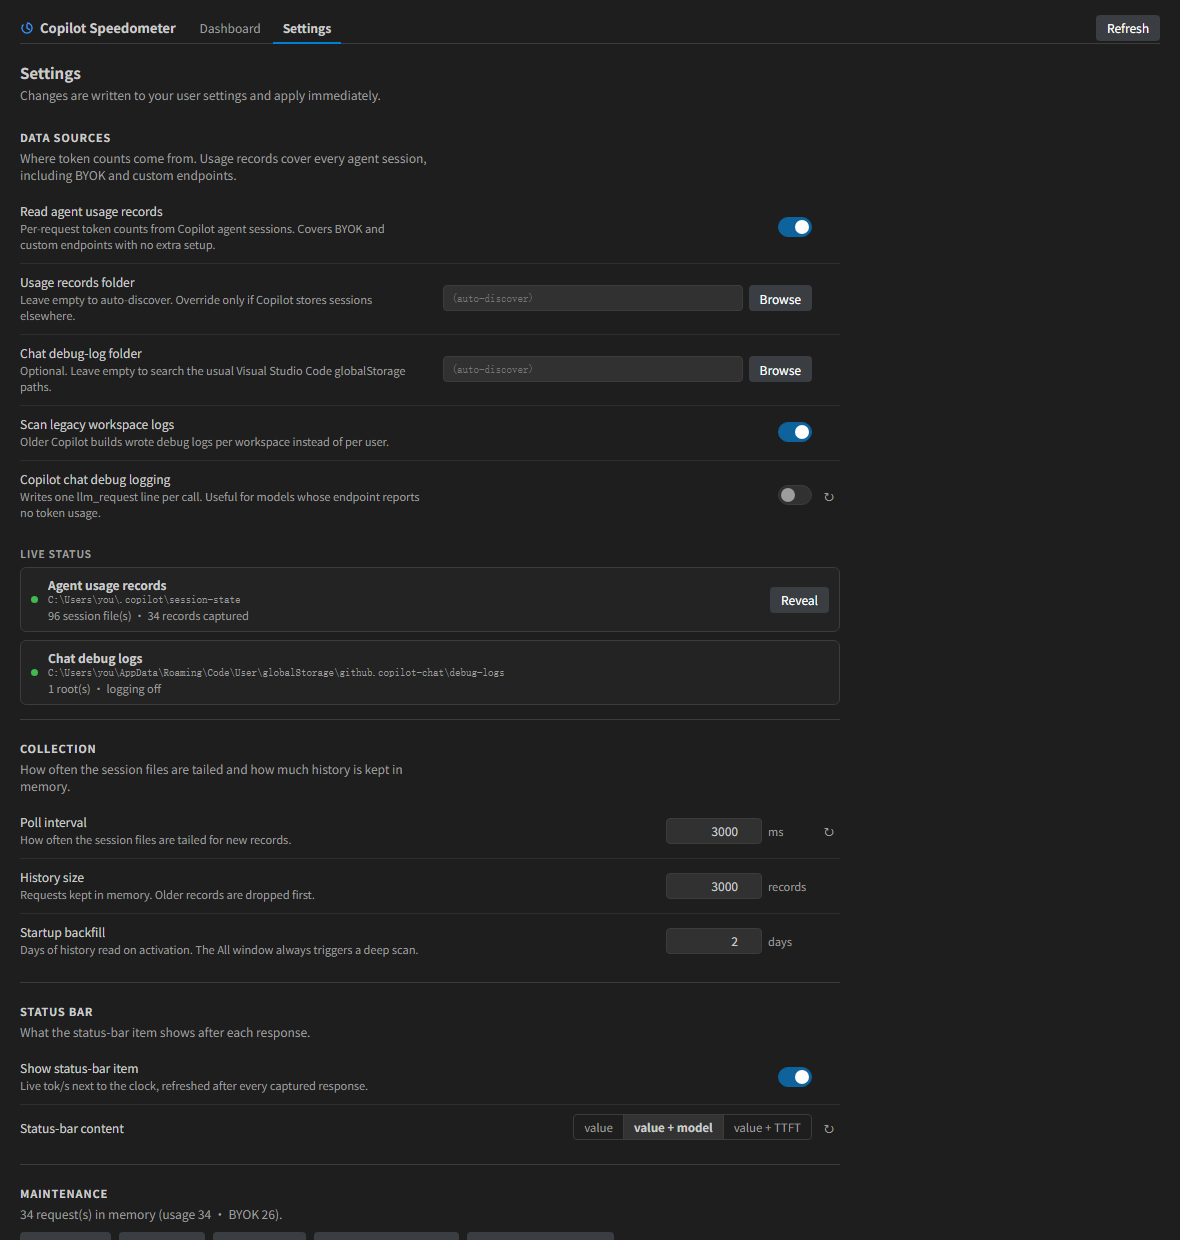
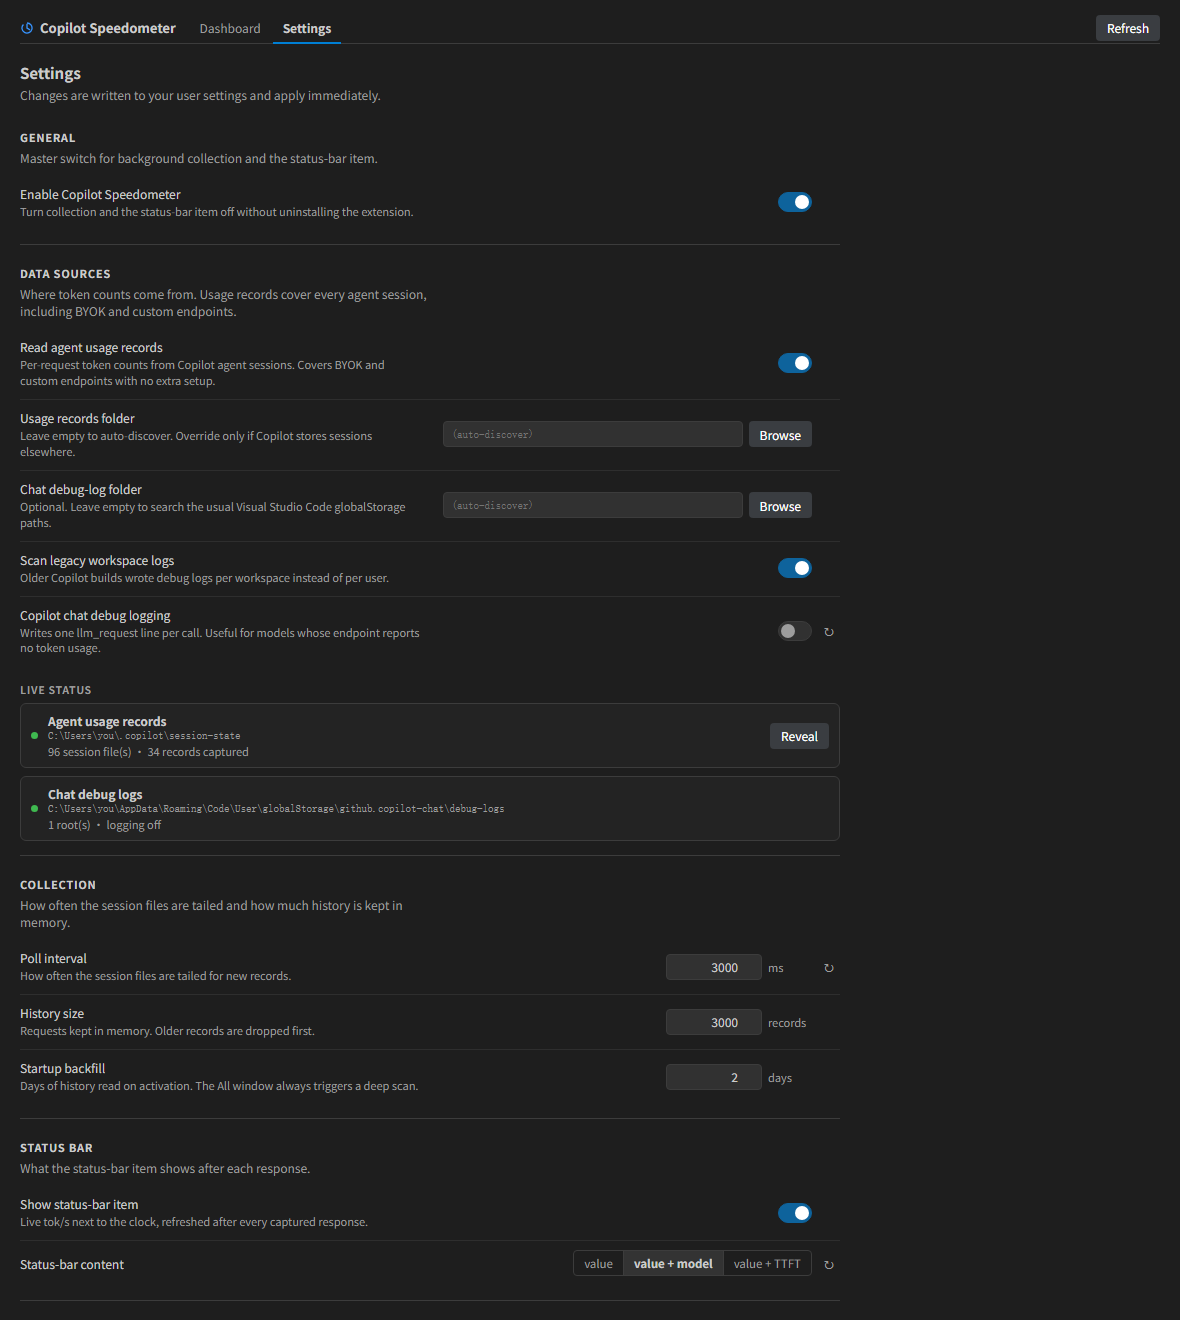
Surface the master switch on the Settings page
It was the only setting without a control in the panel: the General
section was skipped when rendering. It now leads the page.

diff --git a/src/settings.js b/src/settings.js
@@ -113,6 +113,11 @@ function describe(config) {
   return {
     sections: [
       {
+        id: 'general',
+        title: 'General',
+        blurb: 'Master switch for background collection and the status-bar item.',
+      },
+      {
         id: 'sources',
         title: 'Data sources',
         blurb: 'Where token counts come from. Usage records cover every agent session, including BYOK and custom endpoints.',
@@ -126,11 +131,6 @@ function describe(config) {
         id: 'display',
         title: 'Status bar',
         blurb: 'What the status-bar item shows after each response.',
-      },
-      {
-        id: 'general',
-        title: 'General',
-        blurb: '',
       },
     ],
     fields: FIELDS.map((f) => ({

diff --git a/src/webview.js b/src/webview.js
@@ -454,7 +454,6 @@ function html(nonce, cspSource) {
         '<span class="save-state" id="save-state"></span></div>');
 
       s.sections.forEach(function (sec) {
-        if (sec.id === 'general') return;
         var fields = s.fields.filter(function (f) { return f.section === sec.id; });
         if (!fields.length) return;
         status = '';
